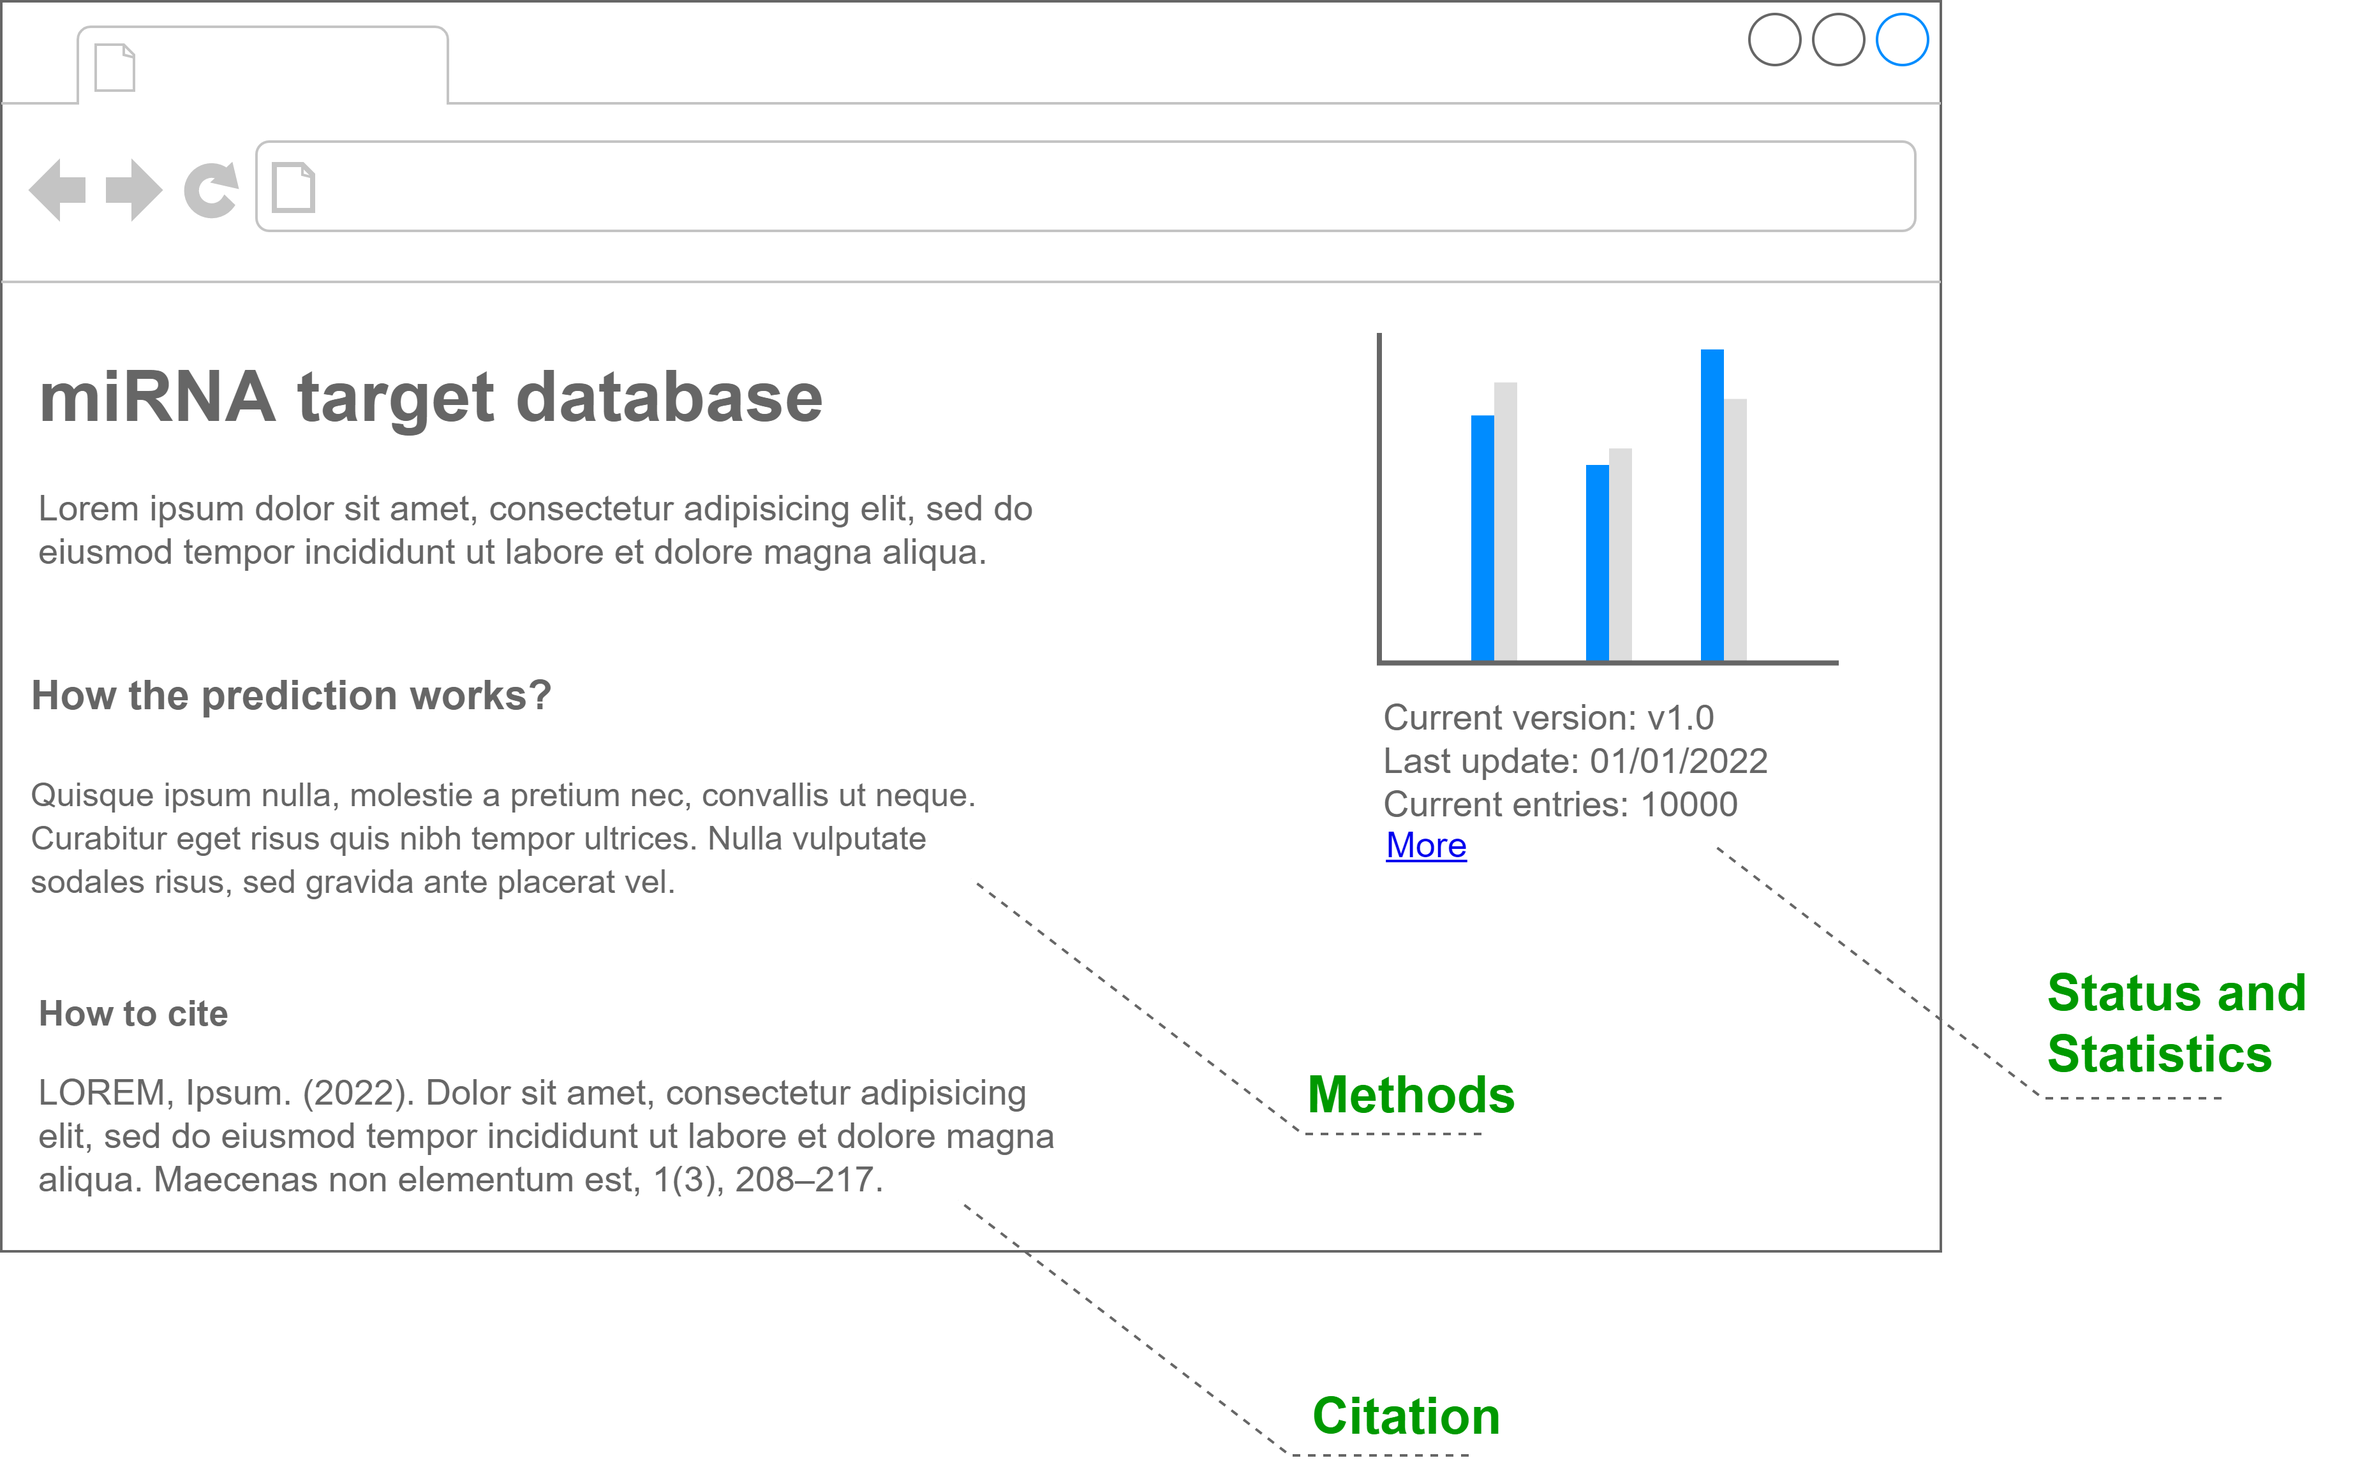
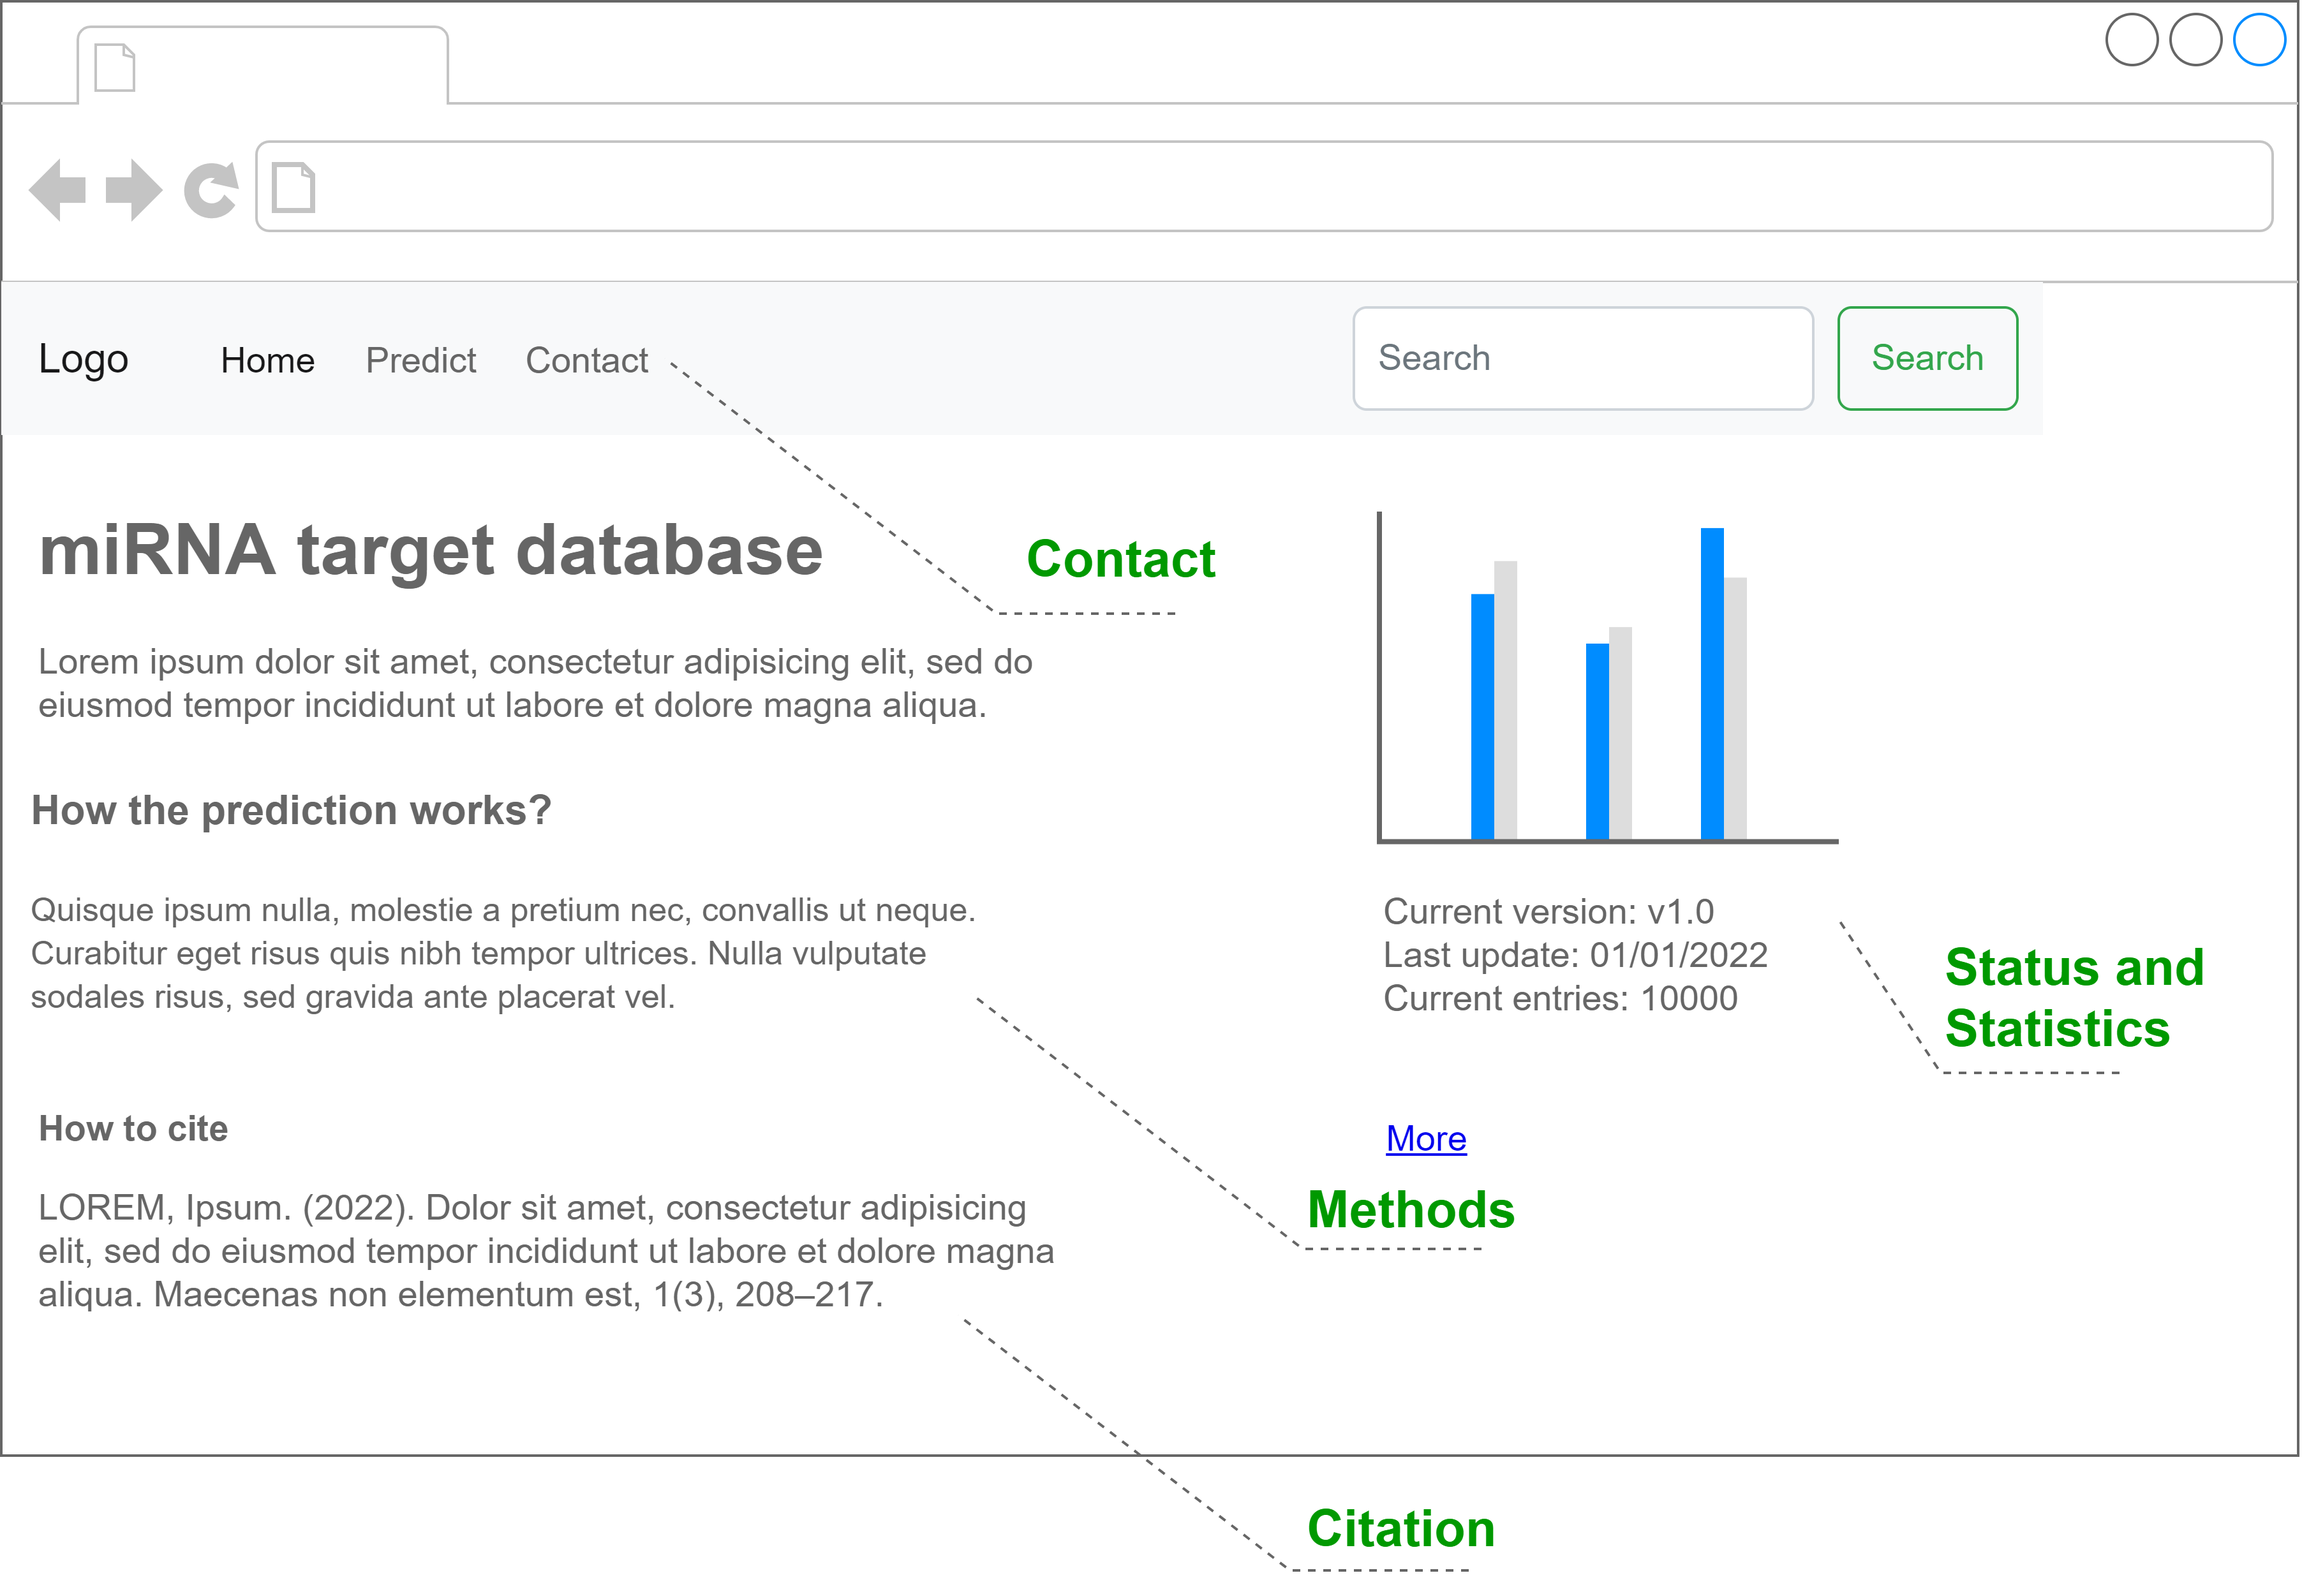
add: contact pattern

diff --git a/content/patterns/mirna-target-database/informational-elements.md b/content/patterns/mirna-target-database/informational-elements.md
@@ -38,11 +38,11 @@ Critical information needs to be available in the user interface to support the 
 
 ## Solution
 
-The **Informational Elements** are usually contained on or accessed from the tool's main page. They do not necessarily compose a single information block in the interface but present related information whose primary purpose is to inform the user about the use and status of the tool. The main page should display the current information about the number of miRNA targets supported and the last update date ([**Status and Statistics**]({{< relref "patterns/mirna-target-database/status-and-statistics" >}})). The main page is also the preferred place to display the [**Citation**]({{< relref "patterns/mirna-target-database/citation" >}}) that users must use to reference the database. The **Informational Elements** must also comprise the [**Methods**]({{< relref "patterns/mirna-target-database/methods" >}}) used to calculate the prediction score shown in the [**Data Presentation**]({{< relref "patterns/mirna-target-database/data-presentation" >}}).
+The **Informational Elements** are usually contained on or accessed from the tool's main page. They do not necessarily compose a single information block in the interface but present related information whose primary purpose is to inform the user about the use and status of the tool. The main page should display the current information about the number of miRNA targets supported and the last update date ([**Status and Statistics**]({{< relref "patterns/mirna-target-database/status-and-statistics" >}})). The main page is also the preferred place to display the [**Citation**]({{< relref "patterns/mirna-target-database/citation" >}}) that users must use to reference the database. The **Informational Elements** must also comprise the [**Methods**]({{< relref "patterns/mirna-target-database/methods" >}}) used to calculate the prediction score shown in the [**Data Presentation**]({{< relref "patterns/mirna-target-database/data-presentation" >}}). A [**Contact**]({{< relref "patterns/mirna-target-database/contact" >}}) information should also be displayed to enable users to reach out for questions and suggestions.
 
 ## Rationale
 
-**Informational Elements** should help the user quickly decide on using the database. A common problem with databases of miRNAs targets is a lack of updates (Mullany et al., 2015), so the user needs to quickly identify the [**Status and Statistics**]({{< relref "patterns/mirna-target-database/status-and-statistics" >}}) of the tool. [**Citation**]({{< relref "patterns/mirna-target-database/citation" >}}) is essential so that the user correctly references what database was used to produce the results in their paper. Low interpretability of the results is one problem that affects users (Mullany et al., 2015). Thus, it is important that users can easily consult the [**Methods**]({{< relref "patterns/mirna-target-database/methods" >}}) used for target prediction.
+**Informational Elements** should help the user quickly decide on using the database. A common problem with databases of miRNAs targets is a lack of updates (Mullany et al., 2015), so the user needs to quickly identify the [**Status and Statistics**]({{< relref "patterns/mirna-target-database/status-and-statistics" >}}) of the tool. [**Citation**]({{< relref "patterns/mirna-target-database/citation" >}}) is essential so that the user correctly references what database was used to produce the results in their paper. Low interpretability of the results is one problem that affects users (Mullany et al., 2015). Thus, it is important that users can easily consult the [**Methods**]({{< relref "patterns/mirna-target-database/methods" >}}) used for target prediction. Additionally, **Contact** can enable users to keep the database [**Status and Statistics**]({{< relref "patterns/mirna-target-database/status-and-statistics" >}}) up to date by submitting suggestions or updates.
 
 ## Related patterns
 
@@ -53,6 +53,8 @@ The **Informational Elements** are usually contained on or accessed from the too
 - [Methods]({{< relref "patterns/mirna-target-database/methods" >}}) from Bioinformatics IDP.
 
 - [Citation]({{< relref "patterns/mirna-target-database/citation" >}}) from Bioinformatics IDP.
+
+- [Contact]({{< relref "patterns/mirna-target-database/contact" >}}) from Bioinformatics IDP.
 
 
 ## Examples

diff --git a/content/patterns/mirna-target-database/methods.md b/content/patterns/mirna-target-database/methods.md
@@ -56,6 +56,7 @@ Low interpretability of the results is one problem that affects users (Mullany e
 
 - [Status and Statistics]({{< relref "patterns/mirna-target-database/status-and-statistics" >}}) from Bioinformatics IDP.
 - [Citation]({{< relref "patterns/mirna-target-database/citation" >}}) from Bioinformatics IDP.
+- [Contact]({{< relref "patterns/mirna-target-database/contact" >}}) from Bioinformatics IDP.
 
 ### Similar
 - [FAQ](http://ui-patterns.com/patterns/frequently-asked-questions-faq) from UI Patterns.

diff --git a/content/patterns/mirna-target-database/citation.md b/content/patterns/mirna-target-database/citation.md
@@ -56,7 +56,8 @@ A **Citation** is an essential [**Informational Element**]({{< relref "patterns/
 
 - [Methods]({{< relref "patterns/mirna-target-database/methods" >}}) from Bioinformatics IDP.
 - [Status and Statistics]({{< relref "patterns/mirna-target-database/status-and-statistics" >}}) from Bioinformatics IDP.
-
+- [Contact]({{< relref "patterns/mirna-target-database/contact" >}}) from Bioinformatics IDP.
+  
 ## Examples
 
 ### TargetScan

diff --git a/content/patterns/mirna-target-database/status-and-statistics.md b/content/patterns/mirna-target-database/status-and-statistics.md
@@ -56,7 +56,8 @@ Insert a dedicated section to show the date of the last update and the relevant 
 
 - [Methods]({{< relref "patterns/mirna-target-database/methods" >}}) from Bioinformatics IDP.
 - [Citation]({{< relref "patterns/mirna-target-database/citation" >}}) from Bioinformatics IDP.
-
+- [Contact]({{< relref "patterns/mirna-target-database/contact" >}}) from Bioinformatics IDP.
+  
 ## Examples
 
 ### miRDB
